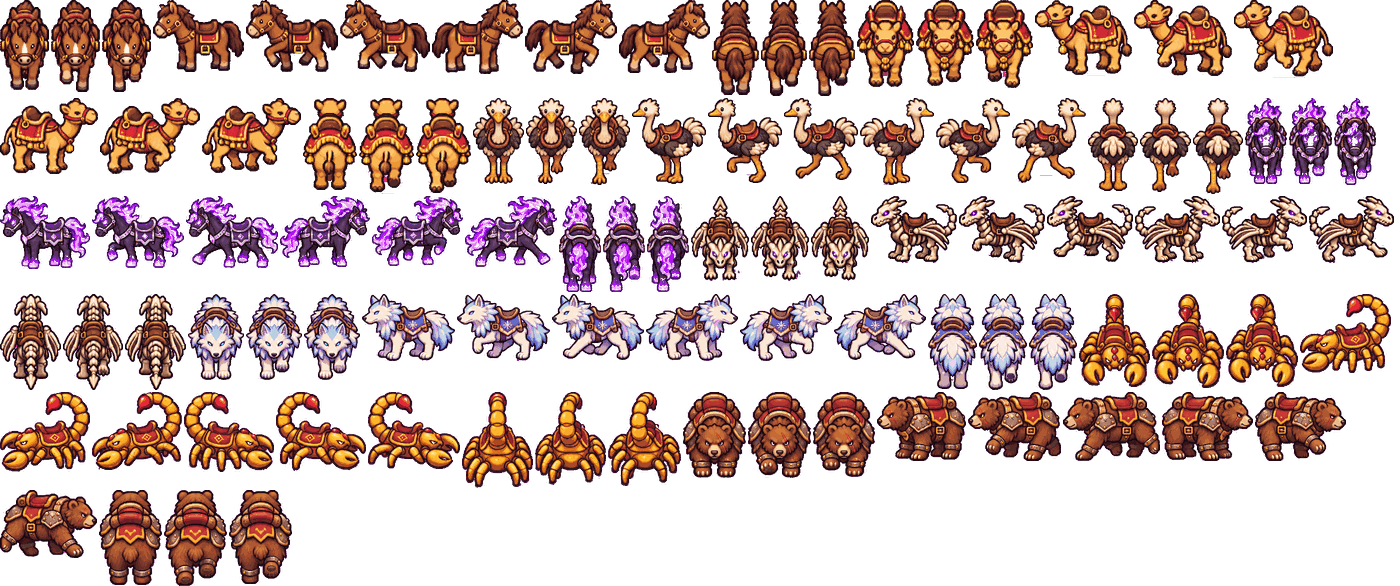
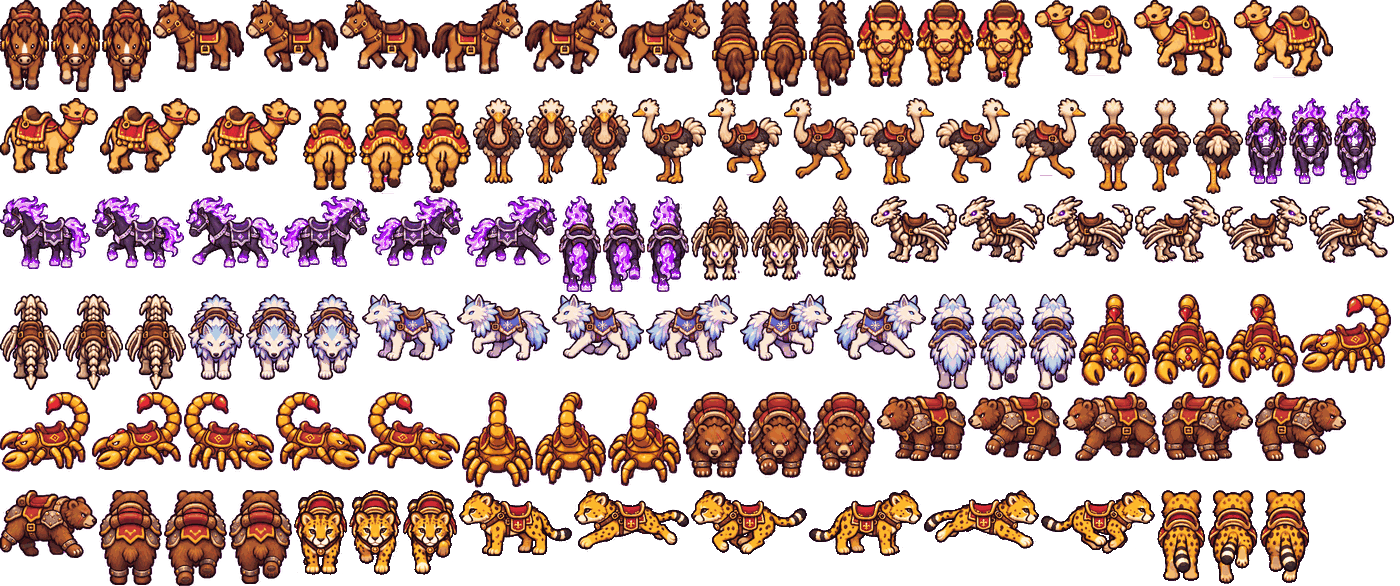
서버 방·개인 방 캐릭터 분리, 천리 치타 그림, 치유사 머리색 깨짐 수정
Claude-Session: https://claude.ai/code/session_01YEZ87jLZoPd7uN5c2uTW66

Changed region(s): [[0.1843, 0.8294, 0.9521, 1.0]]

diff --git a/gfx/items.js b/gfx/items.js
@@ -1,1 +1,1 @@
-window.ITEM_ATLAS={"w_sword_0":[0,0],"w_sword_1":[64,0],"w_sword_2":[128,0],"w_sword_3":[192,0],"w_sword_4":[256,0],"w_axe_0":[320,0],"w_axe_1":[384,0],"w_axe_2":[448,0],"w_axe_3":[512,0],"w_axe_4":[576,0],"w_spear_0":[640,0],"w_spear_1":[704,0],"w_spear_2":[768,0],"w_spear_3":[832,0],"w_spear_4":[896,0],"w_staff_0":[0,64],"w_staff_1":[64,64],"w_staff_2":[128,64],"w_staff_3":[192,64],"w_staff_4":[256,64],"w_wand_0":[320,64],"w_wand_1":[384,64],"w_wand_2":[448,64],"w_wand_3":[512,64],"w_wand_4":[576,64],"w_bow_0":[640,64],"w_bow_1":[704,64],"w_bow_2":[768,64],"w_bow_3":[832,64],"w_bow_4":[896,64],"w_crossbow_0":[0,128],"w_crossbow_1":[64,128],"w_crossbow_2":[128,128],"w_crossbow_3":[192,128],"w_crossbow_4":[256,128],"w_sword_5":[320,128],"w_sword_6":[384,128],"w_sword_7":[448,128],"w_sword_8":[512,128],"w_sword_9":[576,128],"w_axe_5":[640,128],"w_axe_6":[704,128],"w_axe_7":[768,128],"w_axe_8":[832,128],"w_axe_9":[896,128],"w_spear_5":[0,192],"w_spear_6":[64,192],"w_spear_7":[128,192],"w_spear_8":[192,192],"w_spear_9":[256,192],"w_staff_5":[320,192],"w_staff_6":[384,192],"w_staff_7":[448,192],"w_staff_8":[512,192],"w_staff_9":[576,192],"w_wand_5":[640,192],"w_wand_6":[704,192],"w_wand_7":[768,192],"w_wand_8":[832,192],"w_wand_9":[896,192],"w_bow_5":[0,256],"w_bow_6":[64,256],"w_bow_7":[128,256],"w_bow_8":[192,256],"w_bow_9":[256,256],"w_crossbow_5":[320,256],"w_crossbow_6":[384,256],"w_crossbow_7":[448,256],"w_crossbow_8":[512,256],"w_crossbow_9":[576,256],"a_helmet_0":[640,256],"a_helmet_1":[704,256],"a_helmet_2":[768,256],"a_helmet_3":[832,256],"a_helmet_4":[896,256],"a_armor_0":[0,320],"a_armor_1":[64,320],"a_armor_2":[128,320],"a_armor_3":[192,320],"a_armor_4":[256,320],"a_gloves_0":[320,320],"a_gloves_1":[384,320],"a_gloves_2":[448,320],"a_gloves_3":[512,320],"a_gloves_4":[576,320],"a_boots_0":[640,320],"a_boots_1":[704,320],"a_boots_2":[768,320],"a_boots_3":[832,320],"a_boots_4":[896,320],"a_shield_0":[0,384],"a_shield_1":[64,384],"a_shield_2":[128,384],"a_shield_3":[192,384],"a_shield_4":[256,384],"a_helmet_5":[320,384],"a_helmet_6":[384,384],"a_helmet_7":[448,384],"a_helmet_8":[512,384],"a_helmet_9":[576,384],"a_armor_5":[640,384],"a_armor_6":[704,384],"a_armor_7":[768,384],"a_armor_8":[832,384],"a_armor_9":[896,384],"a_gloves_5":[0,448],"a_gloves_6":[64,448],"a_gloves_7":[128,448],"a_gloves_8":[192,448],"a_gloves_9":[256,448],"a_boots_5":[320,448],"a_boots_6":[384,448],"a_boots_7":[448,448],"a_boots_8":[512,448],"a_boots_9":[576,448],"a_shield_5":[640,448],"a_shield_6":[704,448],"a_shield_7":[768,448],"a_shield_8":[832,448],"a_shield_9":[896,448],"l_L_wind":[0,512],"l_L_quake":[64,512],"l_L_aegis":[128,512],"l_L_dragonShield":[192,512],"l_L_galaxy":[256,512],"l_L_star":[320,512],"l_L_timeRobe":[384,512],"l_L_sageHat":[448,512],"l_L_dawn":[512,512],"l_L_thunder":[576,512],"l_L_saintHood":[640,512],"l_L_windBoots":[704,512],"u:hp1":[768,512],"u:hp2":[832,512],"u:mp1":[896,512],"u:mp2":[0,576],"u:buffAtk":[64,576],"u:buffDef":[128,576],"u:recall":[192,576],"u:back":[256,576],"u:meatCooked":[320,576],"u:stew":[384,576],"u:feast":[448,576],"u:fishGrill":[512,576],"u:mushSkewer":[576,576],"u:herbTea":[640,576],"u:mushSoup":[704,576],"u:applePie":[768,576],"u:honeyBread":[832,576],"u:fishStew":[896,576],"u:iceTea":[0,640],"u:lavaHotpot":[64,640],"u:salmonSteak":[128,640],"u:goldCarpDish":[192,640],"u:kingFeast":[256,640],"u:rod":[320,640],"u:rod2":[384,640],"u:pouch":[448,640],"u:tmap":[512,640],"u:fCrucian":[576,640],"u:fCarp":[640,640],"u:fCatfish":[704,640],"u:fTrout":[768,640],"u:fSalmon":[832,640],"u:fTropical":[896,640],"u:fEel":[0,704],"u:fGold":[64,704],"m:낡은 장화":[128,704],"m:철광석":[192,704],"m:은광석":[256,704],"m:마력석":[320,704],"m:용의비늘":[384,704],"m:나무":[448,704],"m:돌":[512,704],"m:양털":[576,704],"m:솜":[640,704],"m:횃불":[704,704],"m:고기":[768,704],"m:약초":[832,704],"m:버섯":[896,704],"m:사과":[0,768],"m:꿀":[64,768],"m:향신료":[128,768],"m:얼음꽃":[192,768],"m:용암고추":[256,768],"m:밀가루":[320,768],"m:우유":[384,768],"m:달걀":[448,768],"m:소금":[512,768],"m:진주":[576,768],"m:보물지도 조각":[640,768],"m:coin":[704,768],"f:bed":[768,768],"f:chest":[832,768],"f:torch":[896,768],"f:campfire":[0,832],"f:stove":[64,832],"f:table":[128,832],"f:rug":[192,832],"f:plant":[256,832],"f:chair":[320,832],"f:shelf":[384,832],"f:lantern":[448,832],"f:window":[512,832],"f:door":[576,832],"f:painting":[640,832],"f:cushion":[704,832]};window.FX_ATLAS={"slash": [[0, 0, 84, 37], [86, 0, 91, 61], [179, 0, 91, 80], [272, 0, 96, 87], [370, 0, 93, 80]], "whirl": [[465, 0, 66, 46], [533, 0, 81, 65], [616, 0, 87, 81], [705, 0, 96, 92], [803, 0, 84, 80]], "fire": [[889, 0, 72, 26], [0, 94, 76, 45], [78, 94, 96, 66], [176, 94, 93, 78], [271, 94, 83, 72]], "ice": [[356, 94, 42, 27], [400, 94, 58, 42], [460, 94, 91, 57], [553, 94, 81, 96], [636, 94, 70, 85]], "bolt": [[708, 94, 37, 45], [747, 94, 53, 57], [802, 94, 77, 67], [881, 94, 69, 96], [952, 94, 62, 54]], "heal": [[0, 192, 51, 58], [53, 192, 66, 71], [121, 192, 84, 80], [207, 192, 96, 85], [305, 192, 71, 71]]};window.HORSE_ATLAS={"horse": {"down": [[0, 0, 49, 90], [51, 0, 49, 92], [102, 0, 49, 92]], "left": [[153, 0, 91, 72], [246, 0, 92, 72], [340, 0, 90, 72]], "right": [[432, 0, 91, 74], [525, 0, 92, 74], [619, 0, 91, 73]], "up": [[712, 0, 47, 95], [761, 0, 46, 96], [809, 0, 46, 96]]}, "camel": {"down": [[857, 0, 57, 87], [916, 0, 58, 86], [976, 0, 57, 88]], "left": [[1035, 0, 97, 76], [1134, 0, 98, 76], [1234, 0, 99, 78]], "right": [[0, 98, 98, 76], [100, 98, 100, 76], [202, 98, 99, 75]], "up": [[303, 98, 54, 92], [359, 98, 55, 96], [416, 98, 55, 95]]}, "ostrich": {"down": [[473, 98, 51, 86], [526, 98, 51, 86], [579, 98, 51, 87]], "left": [[632, 98, 74, 86], [708, 98, 74, 85], [784, 98, 74, 82]], "right": [[860, 98, 74, 87], [936, 98, 74, 85], [1012, 98, 74, 85]], "up": [[1088, 98, 50, 93], [1140, 98, 51, 94], [1193, 98, 50, 96]]}, "nightmare": {"down": [[1245, 98, 42, 86], [1289, 98, 43, 86], [1334, 98, 42, 87]], "left": [[0, 196, 90, 73], [92, 196, 92, 72], [186, 196, 92, 72]], "right": [[280, 196, 90, 71], [372, 196, 91, 70], [465, 196, 92, 71]], "up": [[559, 196, 42, 96], [603, 196, 42, 96], [647, 196, 42, 96]]}, "boneDrake": {"down": [[691, 196, 58, 85], [751, 196, 58, 85], [811, 196, 58, 85]], "left": [[871, 196, 86, 67], [959, 196, 86, 67], [1047, 196, 86, 66]], "right": [[1135, 196, 85, 67], [1222, 196, 85, 67], [1309, 196, 85, 67]], "up": [[0, 294, 61, 96], [63, 294, 60, 96], [125, 294, 61, 96]]}, "frostWolf": {"down": [[188, 294, 56, 86], [246, 294, 56, 86], [304, 294, 56, 86]], "left": [[362, 294, 93, 67], [457, 294, 93, 67], [552, 294, 92, 66]], "right": [[646, 294, 92, 67], [740, 294, 92, 67], [834, 294, 92, 66]], "up": [[928, 294, 49, 95], [979, 294, 48, 96], [1029, 294, 48, 96]]}, "goldScorpion": {"down": [[1079, 294, 71, 93], [1152, 294, 72, 94], [1226, 294, 72, 93]], "left": [[1300, 294, 91, 79], [0, 392, 90, 80], [92, 392, 90, 78]], "right": [[184, 392, 90, 80], [276, 392, 90, 79], [368, 392, 92, 77]], "up": [[462, 392, 71, 96], [535, 392, 71, 93], [608, 392, 73, 94]]}, "battleBear": {"down": [[683, 392, 63, 86], [748, 392, 63, 86], [813, 392, 62, 85]], "left": [[877, 392, 89, 69], [968, 392, 93, 69], [1063, 392, 97, 69]], "right": [[1162, 392, 91, 69], [1255, 392, 91, 69], [0, 490, 97, 68]], "up": [[99, 490, 63, 95], [164, 490, 63, 96], [229, 490, 63, 94]]}};window.NPC_ATLAS={"shop": [[0, 0, 96, 146], [98, 0, 100, 143], [200, 0, 100, 142], [302, 0, 89, 147]], "gear": [[393, 0, 98, 149], [493, 0, 87, 149], [582, 0, 86, 147], [670, 0, 95, 150]], "smith": [[767, 0, 124, 149], [893, 0, 98, 149], [993, 0, 92, 148], [0, 152, 122, 148]], "stable": [[124, 152, 109, 143], [235, 152, 100, 141], [337, 152, 100, 142], [439, 152, 106, 143]], "master": [[547, 152, 104, 144], [653, 152, 111, 141], [766, 152, 111, 142], [879, 152, 102, 144]], "guide": [[983, 152, 97, 158], [1082, 152, 104, 158], [0, 312, 103, 160], [105, 312, 98, 155]], "bank": [[205, 312, 93, 156], [300, 312, 95, 152], [397, 312, 94, 152], [493, 312, 92, 155]]};
+window.ITEM_ATLAS={"w_sword_0":[0,0],"w_sword_1":[64,0],"w_sword_2":[128,0],"w_sword_3":[192,0],"w_sword_4":[256,0],"w_axe_0":[320,0],"w_axe_1":[384,0],"w_axe_2":[448,0],"w_axe_3":[512,0],"w_axe_4":[576,0],"w_spear_0":[640,0],"w_spear_1":[704,0],"w_spear_2":[768,0],"w_spear_3":[832,0],"w_spear_4":[896,0],"w_staff_0":[0,64],"w_staff_1":[64,64],"w_staff_2":[128,64],"w_staff_3":[192,64],"w_staff_4":[256,64],"w_wand_0":[320,64],"w_wand_1":[384,64],"w_wand_2":[448,64],"w_wand_3":[512,64],"w_wand_4":[576,64],"w_bow_0":[640,64],"w_bow_1":[704,64],"w_bow_2":[768,64],"w_bow_3":[832,64],"w_bow_4":[896,64],"w_crossbow_0":[0,128],"w_crossbow_1":[64,128],"w_crossbow_2":[128,128],"w_crossbow_3":[192,128],"w_crossbow_4":[256,128],"w_sword_5":[320,128],"w_sword_6":[384,128],"w_sword_7":[448,128],"w_sword_8":[512,128],"w_sword_9":[576,128],"w_axe_5":[640,128],"w_axe_6":[704,128],"w_axe_7":[768,128],"w_axe_8":[832,128],"w_axe_9":[896,128],"w_spear_5":[0,192],"w_spear_6":[64,192],"w_spear_7":[128,192],"w_spear_8":[192,192],"w_spear_9":[256,192],"w_staff_5":[320,192],"w_staff_6":[384,192],"w_staff_7":[448,192],"w_staff_8":[512,192],"w_staff_9":[576,192],"w_wand_5":[640,192],"w_wand_6":[704,192],"w_wand_7":[768,192],"w_wand_8":[832,192],"w_wand_9":[896,192],"w_bow_5":[0,256],"w_bow_6":[64,256],"w_bow_7":[128,256],"w_bow_8":[192,256],"w_bow_9":[256,256],"w_crossbow_5":[320,256],"w_crossbow_6":[384,256],"w_crossbow_7":[448,256],"w_crossbow_8":[512,256],"w_crossbow_9":[576,256],"a_helmet_0":[640,256],"a_helmet_1":[704,256],"a_helmet_2":[768,256],"a_helmet_3":[832,256],"a_helmet_4":[896,256],"a_armor_0":[0,320],"a_armor_1":[64,320],"a_armor_2":[128,320],"a_armor_3":[192,320],"a_armor_4":[256,320],"a_gloves_0":[320,320],"a_gloves_1":[384,320],"a_gloves_2":[448,320],"a_gloves_3":[512,320],"a_gloves_4":[576,320],"a_boots_0":[640,320],"a_boots_1":[704,320],"a_boots_2":[768,320],"a_boots_3":[832,320],"a_boots_4":[896,320],"a_shield_0":[0,384],"a_shield_1":[64,384],"a_shield_2":[128,384],"a_shield_3":[192,384],"a_shield_4":[256,384],"a_helmet_5":[320,384],"a_helmet_6":[384,384],"a_helmet_7":[448,384],"a_helmet_8":[512,384],"a_helmet_9":[576,384],"a_armor_5":[640,384],"a_armor_6":[704,384],"a_armor_7":[768,384],"a_armor_8":[832,384],"a_armor_9":[896,384],"a_gloves_5":[0,448],"a_gloves_6":[64,448],"a_gloves_7":[128,448],"a_gloves_8":[192,448],"a_gloves_9":[256,448],"a_boots_5":[320,448],"a_boots_6":[384,448],"a_boots_7":[448,448],"a_boots_8":[512,448],"a_boots_9":[576,448],"a_shield_5":[640,448],"a_shield_6":[704,448],"a_shield_7":[768,448],"a_shield_8":[832,448],"a_shield_9":[896,448],"l_L_wind":[0,512],"l_L_quake":[64,512],"l_L_aegis":[128,512],"l_L_dragonShield":[192,512],"l_L_galaxy":[256,512],"l_L_star":[320,512],"l_L_timeRobe":[384,512],"l_L_sageHat":[448,512],"l_L_dawn":[512,512],"l_L_thunder":[576,512],"l_L_saintHood":[640,512],"l_L_windBoots":[704,512],"u:hp1":[768,512],"u:hp2":[832,512],"u:mp1":[896,512],"u:mp2":[0,576],"u:buffAtk":[64,576],"u:buffDef":[128,576],"u:recall":[192,576],"u:back":[256,576],"u:meatCooked":[320,576],"u:stew":[384,576],"u:feast":[448,576],"u:fishGrill":[512,576],"u:mushSkewer":[576,576],"u:herbTea":[640,576],"u:mushSoup":[704,576],"u:applePie":[768,576],"u:honeyBread":[832,576],"u:fishStew":[896,576],"u:iceTea":[0,640],"u:lavaHotpot":[64,640],"u:salmonSteak":[128,640],"u:goldCarpDish":[192,640],"u:kingFeast":[256,640],"u:rod":[320,640],"u:rod2":[384,640],"u:pouch":[448,640],"u:tmap":[512,640],"u:fCrucian":[576,640],"u:fCarp":[640,640],"u:fCatfish":[704,640],"u:fTrout":[768,640],"u:fSalmon":[832,640],"u:fTropical":[896,640],"u:fEel":[0,704],"u:fGold":[64,704],"m:낡은 장화":[128,704],"m:철광석":[192,704],"m:은광석":[256,704],"m:마력석":[320,704],"m:용의비늘":[384,704],"m:나무":[448,704],"m:돌":[512,704],"m:양털":[576,704],"m:솜":[640,704],"m:횃불":[704,704],"m:고기":[768,704],"m:약초":[832,704],"m:버섯":[896,704],"m:사과":[0,768],"m:꿀":[64,768],"m:향신료":[128,768],"m:얼음꽃":[192,768],"m:용암고추":[256,768],"m:밀가루":[320,768],"m:우유":[384,768],"m:달걀":[448,768],"m:소금":[512,768],"m:진주":[576,768],"m:보물지도 조각":[640,768],"m:coin":[704,768],"f:bed":[768,768],"f:chest":[832,768],"f:torch":[896,768],"f:campfire":[0,832],"f:stove":[64,832],"f:table":[128,832],"f:rug":[192,832],"f:plant":[256,832],"f:chair":[320,832],"f:shelf":[384,832],"f:lantern":[448,832],"f:window":[512,832],"f:door":[576,832],"f:painting":[640,832],"f:cushion":[704,832]};window.FX_ATLAS={"slash": [[0, 0, 84, 37], [86, 0, 91, 61], [179, 0, 91, 80], [272, 0, 96, 87], [370, 0, 93, 80]], "whirl": [[465, 0, 66, 46], [533, 0, 81, 65], [616, 0, 87, 81], [705, 0, 96, 92], [803, 0, 84, 80]], "fire": [[889, 0, 72, 26], [0, 94, 76, 45], [78, 94, 96, 66], [176, 94, 93, 78], [271, 94, 83, 72]], "ice": [[356, 94, 42, 27], [400, 94, 58, 42], [460, 94, 91, 57], [553, 94, 81, 96], [636, 94, 70, 85]], "bolt": [[708, 94, 37, 45], [747, 94, 53, 57], [802, 94, 77, 67], [881, 94, 69, 96], [952, 94, 62, 54]], "heal": [[0, 192, 51, 58], [53, 192, 66, 71], [121, 192, 84, 80], [207, 192, 96, 85], [305, 192, 71, 71]]};window.HORSE_ATLAS={"horse": {"down": [[0, 0, 49, 90], [51, 0, 49, 92], [102, 0, 49, 92]], "left": [[153, 0, 91, 72], [246, 0, 92, 72], [340, 0, 90, 72]], "right": [[432, 0, 91, 74], [525, 0, 92, 74], [619, 0, 91, 73]], "up": [[712, 0, 47, 95], [761, 0, 46, 96], [809, 0, 46, 96]]}, "camel": {"down": [[857, 0, 57, 87], [916, 0, 58, 86], [976, 0, 57, 88]], "left": [[1035, 0, 97, 76], [1134, 0, 98, 76], [1234, 0, 99, 78]], "right": [[0, 98, 98, 76], [100, 98, 100, 76], [202, 98, 99, 75]], "up": [[303, 98, 54, 92], [359, 98, 55, 96], [416, 98, 55, 95]]}, "ostrich": {"down": [[473, 98, 51, 86], [526, 98, 51, 86], [579, 98, 51, 87]], "left": [[632, 98, 74, 86], [708, 98, 74, 85], [784, 98, 74, 82]], "right": [[860, 98, 74, 87], [936, 98, 74, 85], [1012, 98, 74, 85]], "up": [[1088, 98, 50, 93], [1140, 98, 51, 94], [1193, 98, 50, 96]]}, "nightmare": {"down": [[1245, 98, 42, 86], [1289, 98, 43, 86], [1334, 98, 42, 87]], "left": [[0, 196, 90, 73], [92, 196, 92, 72], [186, 196, 92, 72]], "right": [[280, 196, 90, 71], [372, 196, 91, 70], [465, 196, 92, 71]], "up": [[559, 196, 42, 96], [603, 196, 42, 96], [647, 196, 42, 96]]}, "boneDrake": {"down": [[691, 196, 58, 85], [751, 196, 58, 85], [811, 196, 58, 85]], "left": [[871, 196, 86, 67], [959, 196, 86, 67], [1047, 196, 86, 66]], "right": [[1135, 196, 85, 67], [1222, 196, 85, 67], [1309, 196, 85, 67]], "up": [[0, 294, 61, 96], [63, 294, 60, 96], [125, 294, 61, 96]]}, "frostWolf": {"down": [[188, 294, 56, 86], [246, 294, 56, 86], [304, 294, 56, 86]], "left": [[362, 294, 93, 67], [457, 294, 93, 67], [552, 294, 92, 66]], "right": [[646, 294, 92, 67], [740, 294, 92, 67], [834, 294, 92, 66]], "up": [[928, 294, 49, 95], [979, 294, 48, 96], [1029, 294, 48, 96]]}, "goldScorpion": {"down": [[1079, 294, 71, 93], [1152, 294, 72, 94], [1226, 294, 72, 93]], "left": [[1300, 294, 91, 79], [0, 392, 90, 80], [92, 392, 90, 78]], "right": [[184, 392, 90, 80], [276, 392, 90, 79], [368, 392, 92, 77]], "up": [[462, 392, 71, 96], [535, 392, 71, 93], [608, 392, 73, 94]]}, "battleBear": {"down": [[683, 392, 63, 86], [748, 392, 63, 86], [813, 392, 62, 85]], "left": [[877, 392, 89, 69], [968, 392, 93, 69], [1063, 392, 97, 69]], "right": [[1162, 392, 91, 69], [1255, 392, 91, 69], [0, 490, 97, 68]], "up": [[99, 490, 63, 95], [164, 490, 63, 96], [229, 490, 63, 94]]}, "whiteHorse": {"down": [[294, 490, 53, 86], [349, 490, 52, 86], [403, 490, 54, 86]], "left": [[459, 490, 113, 68], [574, 490, 115, 70], [691, 490, 116, 70]], "right": [[809, 490, 113, 68], [924, 490, 115, 68], [1041, 490, 114, 69]], "up": [[1157, 490, 49, 95], [1208, 490, 50, 96], [1260, 490, 50, 95]]}};window.NPC_ATLAS={"shop": [[0, 0, 96, 146], [98, 0, 100, 143], [200, 0, 100, 142], [302, 0, 89, 147]], "gear": [[393, 0, 98, 149], [493, 0, 87, 149], [582, 0, 86, 147], [670, 0, 95, 150]], "smith": [[767, 0, 124, 149], [893, 0, 98, 149], [993, 0, 92, 148], [0, 152, 122, 148]], "stable": [[124, 152, 109, 143], [235, 152, 100, 141], [337, 152, 100, 142], [439, 152, 106, 143]], "master": [[547, 152, 104, 144], [653, 152, 111, 141], [766, 152, 111, 142], [879, 152, 102, 144]], "guide": [[983, 152, 97, 158], [1082, 152, 104, 158], [0, 312, 103, 160], [105, 312, 98, 155]], "bank": [[205, 312, 93, 156], [300, 312, 95, 152], [397, 312, 94, 152], [493, 312, 92, 155]]};

diff --git a/game.js b/game.js
@@ -116,7 +116,7 @@ function makeSaver(db) {
   const last = {}; let busy = false;
   return { save(S) {
     if (!db) {
-      const pack = JSON.stringify({ t: Date.now(), saves: S });
+      const pack = JSON.stringify({ t: Date.now(), saves: S, srv: NET.serverOnly ? 1 : 0, solo: NET.serverOnly ? 0 : 1 });
       try { localStorage.setItem(NET.code ? 'baram_saves_' + NET.code : 'baram_saves', pack); } catch (e) { }
       // 인터넷 백업 (중계 서버에 보관) — 방장 폰 데이터가 지워져도 복구 가능
       if (NET.mq && NET.code) { const j = JSON.stringify(S); const now = Date.now(); if (j !== NET._lastBk && (!NET._bkT || now - NET._bkT > 20000)) { NET._lastBk = j; NET._bkT = now; try { NET.mq.publish(TP + NET.code + '/save', pack, { retain: true, qos: 1 }); } catch (e) { } } }
@@ -226,6 +226,18 @@ function webLobby() {
     c.on('message', onPre); c.subscribe([TP + code + '/host', TP + code + '/save']);
     await new Promise(r => setTimeout(r, 2200));
     c.removeListener('message', onPre); c.unsubscribe([TP + code + '/host', TP + code + '/save']);
+    // 서버(아이패드) 방과 혼자 하는 방은 저장을 절대 섞지 않음
+    if (!NET.serverOnly) {
+      let lastG = false; try { lastG = (mem.role === 'guest' && mem.code === code) || JSON.parse(localStorage.getItem('baram_srvcodes') || '[]').includes(code); } catch (e) { }
+      if ((backup && backup.srv) || (otherHost && otherHost.srv) || lastG) {
+        if (!(otherHost && otherHost.sid !== NET.sid)) {
+          c.end(true); unlock(); let solo = null; try { solo = localStorage.getItem('baram_solo'); } catch (e) { }
+          if (!solo || solo === code) { solo = String(1000 + Math.floor(Math.random() * 9000)); if (solo === code) solo = String((+solo % 9000) + 1000); try { localStorage.setItem('baram_solo', solo); } catch (e) { } }
+          setNetStatus(`${code}번은 아이패드 서버 방이라 혼자 하기는 따로 ${solo}번 방으로 열어요. (서버 캐릭터와 별개)`, '#ffe08a'); $('lcode').value = '';
+          return hostRoom(n, solo);
+        }
+      }
+    } else if (backup && backup.solo) backup = null; // 서버는 혼자 하기 백업을 가져오지 않음
     if (otherHost && otherHost.sid !== NET.sid) { c.end(true); unlock(); setNetStatus(`${otherHost.n}님이 이미 ${code}번 방을 열어 두었어요. [참가하기]로 들어가세요.`, '#ffe08a'); $('lcode').value = code; return; }
     // 저장 데이터: 이 폰의 저장 vs 인터넷 백업 중 최신 것
     let local = null; try { local = JSON.parse(localStorage.getItem('baram_saves_' + code) || 'null'); } catch (e) { }
@@ -236,7 +248,7 @@ function webLobby() {
     try { localStorage.setItem('baram_last', JSON.stringify(NET.serverOnly ? { role: 'server', code, name: '서버' } : { role: 'host', code, name: n })); } catch (e) { }
     startHost(null, '', () => {
       c.subscribe(TP + code + '/h');
-      const pubHost = () => c.publish(TP + code + '/host', JSON.stringify({ n: NET.hostName || n || '서버', t: Date.now(), sid: NET.sid }), { retain: true });
+      const pubHost = () => c.publish(TP + code + '/host', JSON.stringify({ n: NET.hostName || n || '서버', t: Date.now(), sid: NET.sid, srv: NET.serverOnly ? 1 : 0 }), { retain: true });
       pubHost(); setInterval(pubHost, 5000);
       c.on('connect', () => { c.subscribe(TP + code + '/h'); pubHost(); });
       c.on('message', (topic, buf) => {
@@ -275,10 +287,10 @@ function webLobby() {
         const str = buf.toString(); if (!str) { NET.hostPeer = null; setNetStatus('⚠ 방장이 나갔습니다', '#ff8a8a'); if (S.me) announce('방장(호스트)이 게임을 닫았습니다', '#ff8a8a'); return; }
         let d; try { d = JSON.parse(str); } catch (e) { return; }
         if (d.t && Date.now() - d.t > 60000) return; // 오래된 방장 정보는 무시
-        lastHost = Date.now(); NET.hostPeer = 'host';
+        lastHost = Date.now(); NET.hostPeer = 'host'; if (d.srv) { try { const sc = JSON.parse(localStorage.getItem('baram_srvcodes') || '[]'); if (!sc.includes(code)) { sc.push(code); localStorage.setItem('baram_srvcodes', JSON.stringify(sc.slice(-10))); } } catch (e) { } }
         if (!found || (d.sid && NET.hostSid && d.sid !== NET.hostSid)) {
           const re = found; found = true; NET.hostSid = d.sid; setNetStatus(`✅ ${d.n}님의 방(${code})에 연결됨`);
-          try { localStorage.setItem('baram_last', JSON.stringify({ role: 'guest', code, name: n })); } catch (e) { }
+          try { localStorage.setItem('baram_last', JSON.stringify({ role: 'guest', code, name: n })); const sc = JSON.parse(localStorage.getItem('baram_srvcodes') || '[]'); if (!sc.includes(code)) { sc.push(code); localStorage.setItem('baram_srvcodes', JSON.stringify(sc.slice(-10))); } } catch (e) { }
           send(loginMsg(n)); if (re) { announce('방장이 다시 방을 열었어요. 이어서 플레이합니다!', '#9fe8ff'); if (window.rtcClientStart) setTimeout(() => rtcClientStart(o => c.publish(TP + code + '/h', JSON.stringify(Object.assign({ cid }, o)))), 1500); }
         } else NET.hostSid = d.sid;
         return;

diff --git a/assets.js b/assets.js
@@ -128,12 +128,12 @@
     const MD = GD.MOUNTS[ap.mt] || {}; const MK = HA[ap.mt] ? ap.mt : (ap.mt === 'whiteHorse' || MD.tint) ? 'horse' : ap.mt; if (!ap.mt || !HO.ok || !HA[MK]) return _cs(ap, dir, frame);
     const key = JSON.stringify(ap) + dir + frame; let c = hc.get(key); if (c) return c; if (hc.size > 300) hc.clear();
     const rider = _cs(Object.assign({}, ap, { mt: null }), dir, frame === 1 || frame === 3 ? 0 : frame);
-    const d = ['down', 'left', 'right', 'up'][dir] || 'down'; const col = frame === 1 ? 1 : frame === 3 ? 2 : 0; const r = HA[MK][d][col]; const SEAT = ({ horse: [0.42, 0.12], camel: [0.36, 0.06], ostrich: [0.44, 0.0], battleBear: [0.40, 0.10], goldScorpion: [0.42, 0.24], frostWolf: [0.42, 0.14], boneDrake: [0.40, 0.14], nightmare: [0.42, 0.12] })[MK] || [0.42, 0.12];
+    const d = ['down', 'left', 'right', 'up'][dir] || 'down'; const col = frame === 1 ? 1 : frame === 3 ? 2 : 0; const r = HA[MK][d][col]; const SEAT = ({ horse: [0.42, 0.12], camel: [0.36, 0.06], ostrich: [0.44, 0.0], battleBear: [0.40, 0.10], whiteHorse: [0.44, 0.14], goldScorpion: [0.42, 0.24], frostWolf: [0.42, 0.14], boneDrake: [0.40, 0.14], nightmare: [0.42, 0.12] })[MK] || [0.42, 0.12];
     c = mkc(220, 220); const g = c.getContext('2d'); g.imageSmoothingEnabled = true;
     const hw = r[2] * 1.75, hh = r[3] * 1.75; const hx = 110 - hw / 2, hy = 218 - hh;
     let hor = mkc(r[2], r[3]); hor.getContext('2d').drawImage(HO, r[0], r[1], r[2], r[3], 0, 0, r[2], r[3]);
     if (MD.tint && !HA[ap.mt]) { const hg = hor.getContext('2d'); hg.globalCompositeOperation = 'color'; hg.fillStyle = MD.tint; hg.fillRect(0, 0, r[2], r[3]); hg.globalCompositeOperation = 'destination-in'; hg.drawImage(HO, r[0], r[1], r[2], r[3], 0, 0, r[2], r[3]); hg.globalCompositeOperation = 'source-over'; }
-    if (ap.mt === 'whiteHorse' && !MD.tint) { const hg = hor.getContext('2d'); hg.globalCompositeOperation = 'saturation'; hg.fillStyle = '#888'; hg.fillRect(0, 0, r[2], r[3]); hg.globalCompositeOperation = 'screen'; hg.fillStyle = 'rgba(150,150,160,1)'; hg.fillRect(0, 0, r[2], r[3]); hg.globalCompositeOperation = 'destination-in'; hg.drawImage(HO, r[0], r[1], r[2], r[3], 0, 0, r[2], r[3]); }
+    if (ap.mt === 'whiteHorse' && !MD.tint && !HA[ap.mt]) { const hg = hor.getContext('2d'); hg.globalCompositeOperation = 'saturation'; hg.fillStyle = '#888'; hg.fillRect(0, 0, r[2], r[3]); hg.globalCompositeOperation = 'screen'; hg.fillStyle = 'rgba(150,150,160,1)'; hg.fillRect(0, 0, r[2], r[3]); hg.globalCompositeOperation = 'destination-in'; hg.drawImage(HO, r[0], r[1], r[2], r[3], 0, 0, r[2], r[3]); }
     const seatY = hy + hh * (d === 'left' || d === 'right' ? SEAT[0] : SEAT[0] - 0.04), seatX = 110 + (d === 'left' ? hw * 0.08 : d === 'right' ? -hw * 0.08 : 0);
     // 라이더: 실제 그림 영역(bbox)을 찾아 머리~허리(위 68%)만 잘라 안장 위에 앉힘
     const rb = riderBox(rider); const rH = rb.h * 0.68, RS = 1.0; const rw = rb.w * RS, rh = rH * RS;
@@ -148,7 +148,7 @@
       g.drawImage(rider, rb.x, rb.y, rb.w, up, seatX - rw2 / 2, waist - uh, rw2, uh); // 상체
     } else {
       if (d === 'down') { // 앞모습: 탈것 머리가 라이더 몸통을 가림, 얼굴은 머리 위로 보임
-        const by = hy + uh * 0.18 + (MK === 'goldScorpion' ? hh * 0.12 : MK === 'battleBear' || MK === 'frostWolf' ? hh * 0.06 : 0);
+        const by = hy + uh * 0.18 + (MK === 'goldScorpion' ? hh * 0.12 : MK === 'battleBear' || MK === 'frostWolf' ? hh * 0.06 : MK === 'whiteHorse' ? -hh * 0.04 : 0);
         g.drawImage(rider, rb.x, rb.y, rb.w, up, seatX - rw2 / 2, by - uh, rw2, uh); g.drawImage(hor, hx, hy, hw, hh);
         if (MK === 'ostrich') g.drawImage(rider, rb.x, rb.y, rb.w, up * 0.55, seatX - rw2 / 2, by - uh, rw2, uh * 0.55);
       } else { // 뒷모습: 라이더는 탈것 머리 앞, 엉덩이(아래쪽)가 라이더 허리를 가림

diff --git a/index.html b/index.html
@@ -301,26 +301,26 @@ html,body{height:var(--vhp,100%)}
 <div id="panel2" class="panel small win hidden"><div class="pn-head"><div class="t" id="ptitle2"></div><button class="xbtn" id="px2"></button></div><div id="pbody2" style="padding:10px 12px"></div></div>
 <div id="tip" class="win hidden"></div>
 <div id="rotate"><span id="rotic"></span><div style="font-size:18px;font-weight:800">가로로 돌려주세요</div><div style="font-size:12px;opacity:.7">바람의 대륙은 가로 화면 전용이에요</div></div>
-<script>window.BUILD="web";window.BUILDV="1795244949";</script>
-<script src="mqtt.min.js?v=1795244949"></script>
-<script src="data.js?v=1795244949"></script>
-<script src="engine.js?v=1795244949"></script>
-<script src="sprites.js?v=1795244949"></script>
-<script src="env.js?v=1795244949"></script>
-<script src="gfx/chars.js?v=1795244949"></script>
-<script src="chars.js?v=1795244949"></script>
-<script src="gfx/atlas.js?v=1795244949"></script>
-<script src="gfx.js?v=1795244949"></script>
-<script src="tent.js?v=1795244949"></script>
-<script src="game.js?v=1795244949"></script>
-<script src="net-rtc.js?v=1795244949"></script>
-<script src="smooth.js?v=1795244949"></script>
-<script src="gfx/mons.js?v=1795244949"></script>
-<script src="monsters.js?v=1795244949"></script>
-<script src="ui.js?v=1795244949"></script>
-<script src="gfx/items.js?v=1795244949"></script>
-<script src="gfx/forms.js?v=1795244949"></script>
-<script src="gfx/classes.js?v=1795244949"></script>
-<script src="assets.js?v=1795244949"></script>
+<script>window.BUILD="web";window.BUILDV="1795245287";</script>
+<script src="mqtt.min.js?v=1795245287"></script>
+<script src="data.js?v=1795245287"></script>
+<script src="engine.js?v=1795245287"></script>
+<script src="sprites.js?v=1795245287"></script>
+<script src="env.js?v=1795245287"></script>
+<script src="gfx/chars.js?v=1795245287"></script>
+<script src="chars.js?v=1795245287"></script>
+<script src="gfx/atlas.js?v=1795245287"></script>
+<script src="gfx.js?v=1795245287"></script>
+<script src="tent.js?v=1795245287"></script>
+<script src="game.js?v=1795245287"></script>
+<script src="net-rtc.js?v=1795245287"></script>
+<script src="smooth.js?v=1795245287"></script>
+<script src="gfx/mons.js?v=1795245287"></script>
+<script src="monsters.js?v=1795245287"></script>
+<script src="ui.js?v=1795245287"></script>
+<script src="gfx/items.js?v=1795245287"></script>
+<script src="gfx/forms.js?v=1795245287"></script>
+<script src="gfx/classes.js?v=1795245287"></script>
+<script src="assets.js?v=1795245287"></script>
 </body>
 </html>

diff --git a/chars.js b/chars.js
@@ -196,8 +196,8 @@ charSprite = function (ap, dir, frame) {
     const hp = hairPal ? hairPal.filter(p => p[0] + p[1] + p[2] > 150) : []; const hairL = hp.length ? rgb2hsl(...hp[0])[2] : 0.4;
     const armL = { warrior: 0.45, mage: 0.4, healer: 0.38 }[base];
     for (let y = Math.floor(dy); y < c.height; y++) { const yr = (y - dy) / dh; for (let x = 0; x < W2; x++) { const i = (y * W2 + x) * 4; if (d[i + 3] < 30) continue; const r = d[i], gg = d[i + 1], b = d[i + 2]; const [h, sat, l] = rgb2hsl(r, gg, b); if (l < 0.12) continue;
-      if (wantHood && yr < 0.55 && h > 55 && h < 140 && sat > 0.15) { tintPx(d, i, hairT, 0.36); continue; } // 치유사 두건은 머리색을 따라감
-      if (wantHood && !hairPal && yr < 0.42 && h >= 15 && h <= 62 && sat > 0.2 && (!isSkin(h, sat, l) || (ap.g === 'f' && h > 34))) { tintPx(d, i, hairT, 0.42); continue; }
+      if (wantHood && yr < (ap.g === 'f' ? 0.32 : 0.27) && l > 0.1) { tintPx(d, i, hairT, 0.36); continue; } // 머리 윗부분(두건+앞머리) 통째로
+      if (wantHood && yr < 0.5 && sat > 0.12 && ((h > 52 && h < 150) || (h > 42 && h <= 52 && (ap.g !== 'f' ? sat > 0.35 && l > 0.42 && yr < 0.3 : l < 0.5)))) { tintPx(d, i, hairT, 0.36); continue; } // 치유사 두건은 머리색을 따라감
       if (wantHair && yr < 0.5 && !isSkin(h, sat, l)) { let md = 1e9; for (const p of hp) { const dd = (p[0] - r) ** 2 + (p[1] - gg) ** 2 + (p[2] - b) ** 2; if (dd < md) md = dd; } if (md < 34 * 34) { tintPx(d, i, hairT, hairL); continue; } }
       if (armorT && yr > 0.42) { const hit = base === 'warrior' ? ((h < 18 || h > 335) && sat > 0.35) : base === 'mage' ? (h > 195 && h < 265 && sat > 0.2) : (h > 55 && h < 140 && sat > 0.18); if (hit) tintPx(d, i, armorT, armL); }
     } }

diff --git a/data.js b/data.js
@@ -254,7 +254,7 @@
     horse: { name: '갈색 말', price: 30000, spd: 1.5, c: ['#7a4a22', '#2a1a0a'], kind: 'horse' },
     camel: { name: '사막 낙타', price: 70000, spd: 1.65, c: ['#d0a860', '#8a6a3a'], kind: 'camel' },
     ostrich: { name: '질주 타조', price: 120000, spd: 1.85, c: ['#2a2a2a', '#f0e8d8'], kind: 'ostrich' },
-    whiteHorse: { name: '천리 치타', price: 250000, spd: 2.1, c: ['#e8b23a', '#3a2a10'], kind: 'horse', tint: '#e0a530' },
+    whiteHorse: { name: '천리 치타', price: 250000, spd: 2.1, c: ['#e8b23a', '#3a2a10'], kind: 'horse' },
     // 보스 전용 (상점 판매 안 함, 보스 처치 시 낮은 확률로 '탈것 증표' 획득)
     battleBear: { name: '전투곰', boss: 1, spd: 1.7, c: ['#6a4022', '#2a1a0a'], kind: 'horse', tint: '#7a4a22', from: '거대곰왕' },
     goldScorpion: { name: '황금 전갈', boss: 1, spd: 1.85, c: ['#e0b040', '#8a6a1a'], kind: 'horse', tint: '#e8b830', from: '황금전갈왕' },
